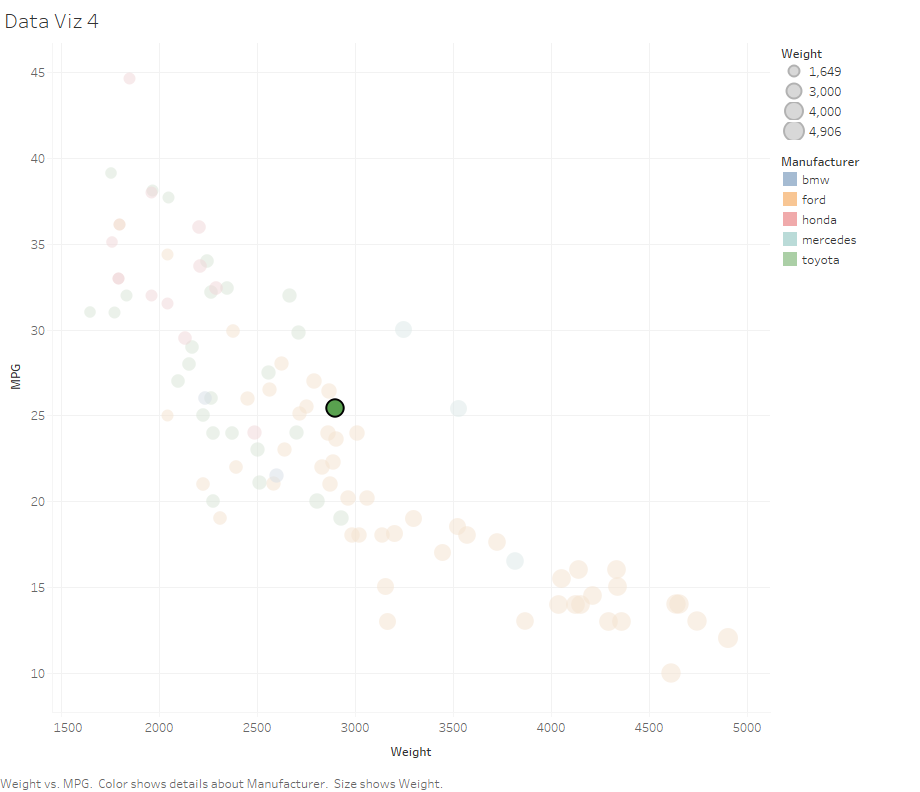
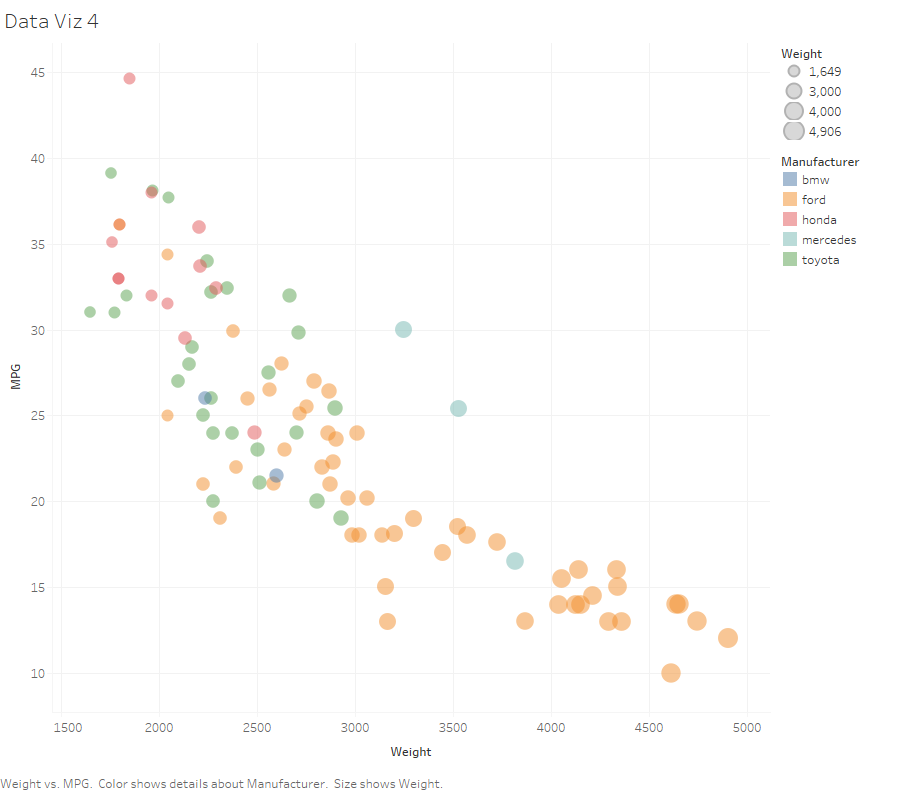
Completed ReadMe and updated pictures.

diff --git a/README.md b/README.md
@@ -1,142 +1,75 @@
-# 02-DataVis-5ways
-
-Assignment 2 - Data Visualization, 5 Ways  
-===
-
-Now that you have successfully made a "visualization" of shapes and lines using d3, your next assignment is to successfully make a *actual visualization*... 5 times. 
-
-The goal of this project is to gain experience with as many data visualization libraries, languages, and tools as possible.
-
-I have provided a small dataset about cars, `cars-sample.csv`.
-Each row contains a car and several variables about it, including miles-per-gallon, manufacturer, and more.
-
-Your goal is to use 5 different tools to make the following chart:
-
-![ggplot2](img/ggplot2.png)
-
-These features should be preserved as much as possible in your replication:
-
-- Data positioning: it should be a downward-trending scatterplot as shown.  Weight should be on the x-axis and MPG on the y-axis.
-- Scales: Note the scales do not start at 0.
-- Axis ticks and labels: both axes are labeled and there are tick marks at 10, 20, 30, etcetera.
-- Color mapping to Manufacturer.
-- Size mapping to Weight.
-- Opacity of circles set to 0.5 or 50%.
-
-Other features are not required. This includes:
-
-- The background grid.
-- The legends.
-
-Note that some software packages will make it **impossible** to perfectly preserve the above requirements. 
-Be sure to note where these deviate.
-
-Improvements are also welcome as part of Technical and Design achievements.
-
-Libraries, Tools, Languages
----
-
-You are required to use 5 different tools or libraries.
-Of the 5 tools, you must use at least 3 libraries (libraries require code of some kind).
-This could be `Python, R, Javascript`, or `Java, Javascript, Matlab` or any other combination.
-Dedicated tools (i.e. Excel) do not count towards the language requirement.
-
-Otherwise, you should seek tools and libraries to fill out your 5.
-
-Below are a few ideas. Do not limit yourself to this list!
-Some may be difficult choices, like Matlab or SPSS, which require large installations, licenses, and occasionally difficult UIs.
-
-I have marked a few that are strongly suggested.
-
-- R + ggplot2 `<- definitely worth trying`
-- Excel
-- d3 `<- since the rest of the class uses this, we're requiring it`
-- Matplotlib
-- three.js `<- well, it's a 3d library. not really recommended, but could be "interesting"`
-- p5js `<- good for playing around. not really a chart lib`
-- Tableau
-- Java 2d
-- GNUplot
-- Vega-lite <- `<- recently much better. look for the high level js implementations`
-- Flourish <- `<- popular last year`
-- PowerBI
-- SPSS
-
-You may write everything from scratch, or start with demo programs from books or the web. 
-If you do start with code that you found, please identify the source of the code in your README and, most importantly, make non-trivial changes to the code to make it your own so you really learn what you're doing. 
-
-Tips
----
-
-- If you're using d3, key to this assignment is knowing how to load data.
-You will likely use the [`d3.json` or `d3.csv` functions](https://github.com/mbostock/d3/wiki/Requests) to load the data you found.
-Beware that these functions are *asynchronous*, meaning it's possible to "build" an empty visualization before the data actually loads.
-
-- *For web languages like d3* Don't forget to run a local webserver when you're debugging.
-See this [ebook](http://chimera.labs.oreilly.com/books/1230000000345/ch04.html#_setting_up_a_web_server) if you're stuck.
-
-
-Readme Requirements
----
-
-A good readme with screenshots and structured documentation is required for this project. 
-It should be possible to scroll through your readme to get an overview of all the tools and visualizations you produced.
-
-- Each visualization should start with a top-level heading (e.g. `# d3`)
-- Each visualization should include a screenshot. Put these in an `img` folder and link through the readme (markdown command: `![caption](img/<imgname>)`.
-- Write a paragraph for each visualization tool you use. What was easy? Difficult? Where could you see the tool being useful in the future? Did you have to use any hacks or data manipulation to get the right chart?
-
-Other Requirements
----
-
-0. Your code should be forked from the GitHub repo.
-1. Place all code, Excel sheets, etcetera in a named folder. For example, `r-ggplot, matlab, mathematica, excel` and so on.
-2. Your writeup (readme.md in the repo) should also contain the following:
-
-- Description of the Technical achievements you attempted with this visualization.
-  - Some ideas include interaction, such as mousing over to see more detail about the point selected.
-- Description of the Design achievements you attempted with this visualization.
-  - Some ideas include consistent color choice, font choice, element size (e.g. the size of the circles).
-
-GitHub Details
----
-
-- Fork the GitHub Repository. You now have a copy associated with your username.
-- Make changes to fulfill the project requirements. 
-- To submit, make a [Pull Request](https://help.github.com/articles/using-pull-requests/) on the original repository.
-
-Grading
----
-
-Grades on a 120 point scale. 
-24 points will be based on your Technical and Design achievements, as explained in your readme. 
-
-Make sure you include the files necessary to reproduce your plots.
-You should structure these in folders if helpful.
-We will choose some at random to run and test.
-
 **NOTE: THE BELOW IS A SAMPLE ENTRY TO GET YOU STARTED ON YOUR README. YOU MAY DELETE THE ABOVE.**
 
-# R + ggplot2 + R Markdown
+# D3
 
-R is a language primarily focused on statistical computing.
-ggplot2 is a popular library for charting in R.
-R Markdown is a document format that compiles to HTML or PDF and allows you to include the output of R code directly in the document.
+The first data vizualiation tool I used for this assignment was D3. Since I am relativley new to D3 it took me some time
+to get used to the syntax and anon functions. But after that I found the data visualization pretty simple. It was challenging
+to understanding how the data was imported from CSV into JSON object. But overall, the tool is powerful and I see myself 
+using it again
 
-To visualized the cars dataset, I made use of ggplot2's `geom_point()` layer, with aesthetics functions for the color and size.
+![d3](D3/img/img.png)
 
-While it takes time to find the correct documentation, these functions made the effort creating this chart minimal.
+## Technical achievements: 
+For the technical achievement I animated the graph to make it look like the graphical points
+are bouncing. This animation is delayed based on the color/company that the point is from. 
 
-![ggplot2](img/ggplot2.png)
+## Design achievements 
+For the design achievement I added tooltips to the data points that contained more specific information
+on that data point. The tooltip contains that car name, MPG, and Weight. 
 
-# d3...
+# Excel
 
-(And so on...)
+The second tool I used was Excel. Coming into this course I had used a fair amount of Excel and assumed that a task 
+like this would be fairly simple to accomplish. However, I was mistaken. This program is not well suited for a graph like this
+It is challenging to group series by color, and change the size of the point based on the weight. This required a lot of data
+manipulation in the CSV file. I would only use Excel for simple 1 to 1 relationship functions. [X, Y]. 
+
+![Excel](Excel/img/DataViz2-Excel.png)
 
 
 ## Technical Achievements
-- **Proved P=NP**: Using a combination of...
-- **Solved AI Forever**: ...
+NA
+## Design Achievements
+NA
 
-### Design Achievements
-- **Re-vamped Apple's Design Philosophy**: As demonstrated in my colorscheme...
+# R + ggplot2
+
+The third tool I used was R and ggplot2. This was very simple to use, and it made this viz extremely simple to accomplish. 
+As you can see everything was accomplished in a single line of code using ggplot library and the geom_point() function. 
+For intensive viz projects I would most certainly feel comfortable using R + ggplot again. The power of the tool was unmatched
+compared to the others used in this assignment. 
+
+![R + ggplot2](R%20+%20ggplot2/img/img.png)
+
+## Technical Achievements
+NA
+## Design Achievements
+NA
+
+# Python + matplotlib + (pandas)
+
+The fourth tool I used was Python and matplotlib. This was also very similar to use and it made this viz simple to accomplish. 
+The hardest part of using this libary was learning how to extract information from the pandas library dataframe. However, despite this
+it still did not require any data manipulation. I found that matplotlib with pandas was as simple to use as ggplot2.
+
+![Python + matplotlib](Python%20+%20matplotlib/img/img.png)
+
+## Technical Achievements
+NA
+## Design Achievements
+NA
+
+# Tableau
+
+The last tool I used was tableau. Tableau is tool similar to excel, but with more flexibility in terms of data presentation. 
+I enjoyed learning this new tool and was surprised with the complexity of the data analysis tools, and data presentation tools. 
+Once I learned about the GUI and was able to get myself oriented, constructing a graph was done within a few clicks. Overall, 
+I would use Tableau over Excel any day (still not as good as ggplot2 and python though). 
+
+![Tabluea](Tableau/img/img.png)
+
+
+## Technical Achievements
+NA
+## Design Achievements
+NA
